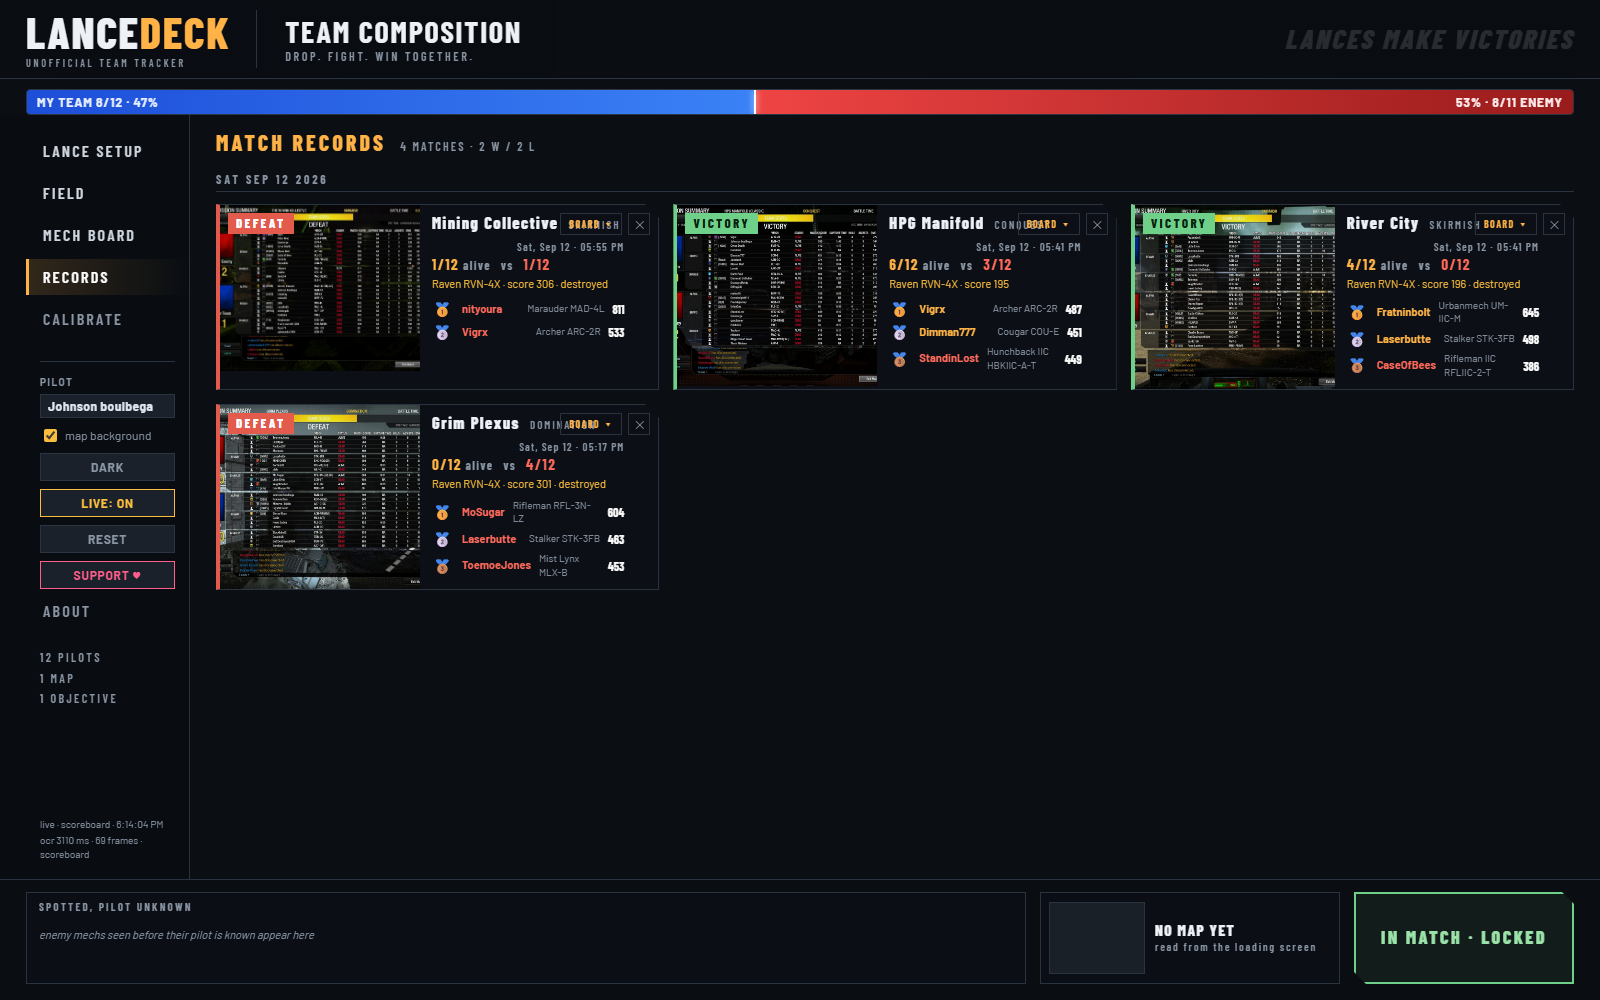
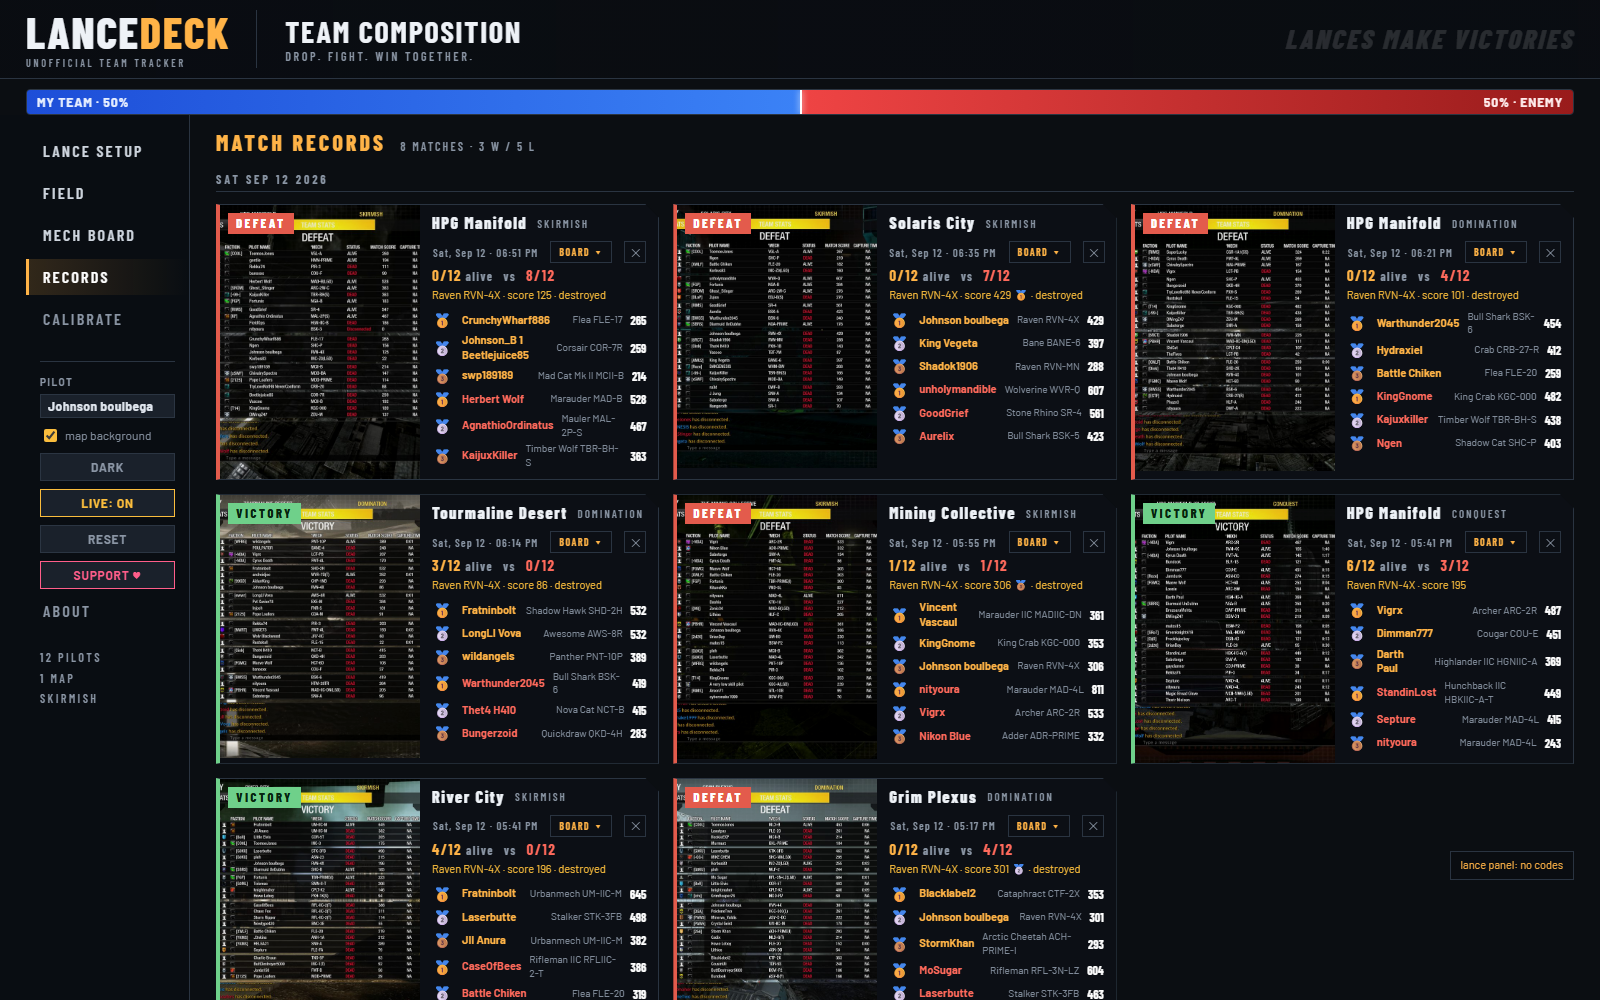
README: screenshots of the four views

diff --git a/README.md b/README.md
@@ -14,6 +14,24 @@ Not affiliated with or endorsed by Piranha Games Inc. MechWarrior and BattleTech
 of their respective owners. Mech and map pictures are copied out of *your own* game install on
 first run and are never redistributed with this app.
 
+## What it looks like
+
+**Lance setup** — both teams as three lances of four, every mech on its pad with pilot, tonnage, role, health and the enemy loadouts you have locked. Your seat is framed in amber, medallists in gold, silver and bronze.
+
+![Lance setup](docs/img/lances.png)
+
+**Field** — the twelve seats of each side on a pitch, your goal at the bottom.
+
+![Field](docs/img/field.png)
+
+**Mech board** — cards by weight class with the strengths and weaknesses of each chassis.
+
+![Mech board](docs/img/board.png)
+
+**Records** — every match's final screen, result, survivors, your score and each team's medallists; each record unfolds into the board of that match.
+
+![Records](docs/img/records.png)
+
 ## Install
 
 1. Download the latest release zip and unpack it anywhere.
